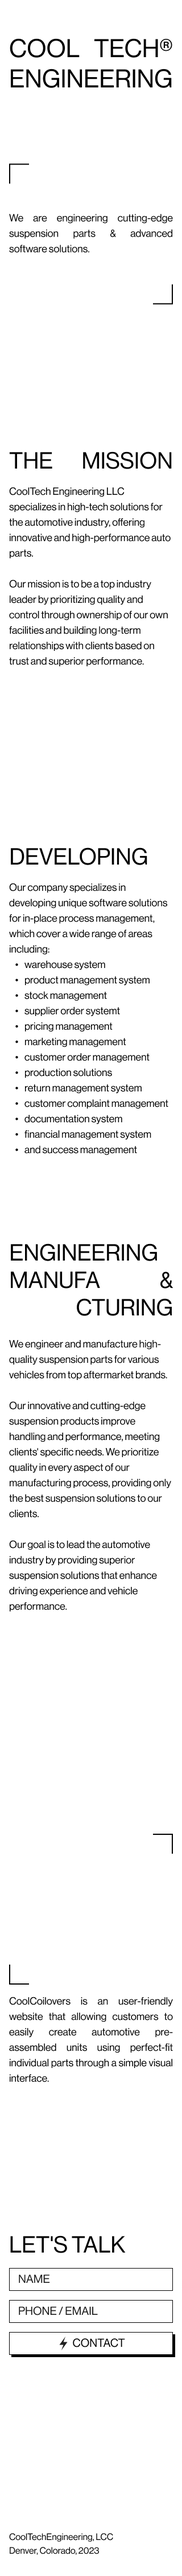
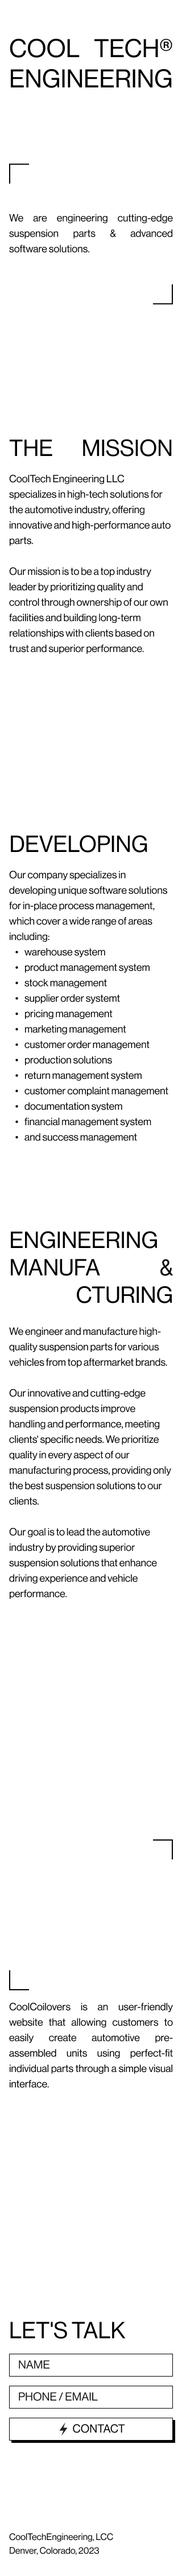
minor adjustments

diff --git a/styles.css b/styles.css
@@ -143,7 +143,7 @@ html, body {
     left: 50%;
     transform: translate(-50%, -50%);
     z-index: 2;
-    height: calc(1.2 * var(--content-height));
+    height: var(--content-height);
 }
 
 #status-bar {
